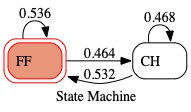
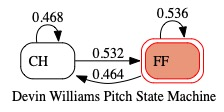
pretty much working

diff --git a/app.py b/app.py
@@ -17,17 +17,25 @@ def index():
 
 @app.route("/get-fsm", methods=["GET"])
 def get_pitcher_diagram():
-    pname = request.args.get("pitcher-name")
-    pquery = PitcherQuery(pname)
-    try:
-        mchain = MarkovChain(pquery.query_results)
-        fpath = mchain.save_state_diagram(pname)
-        fpath = fpath.split("static/")[1]
-        return f'<img src="{url_for("static", filename=f"{fpath}")}" alt="State Diagram for {pname}" style="max-width:100%;">'
 
-    except ValueError:
-        print(f"What's wrong with you! {pname} is not an MLB pitcher!!")
-        return "<div></di>"
+    try:
+        p_name = request.args.get("pitcher-name")
+        p_query = PitcherQuery(p_name)
+        p_names = p_query.pitcher_names
+        norm_name = p_names["pitcher_name_normalized"]
+
+        name = p_names["pitcher_name"]
+        m_chain = MarkovChain(p_query.query_results)
+        f_path = m_chain.save_state_diagram(norm_name, name)
+        f_path = f_path.split("static/")[1]
+        return (
+            f'<img src="{url_for("static", filename=f"{f_path}")}" '
+            '"style="max-width:100%;" id="pitch-fsm-result">'
+        )
+
+    except (KeyError):
+        print(f"What's wrong with you! {p_name} is not an MLB pitcher!!")
+        return "<div></div>"
 
 
 if __name__ == "__main__":
